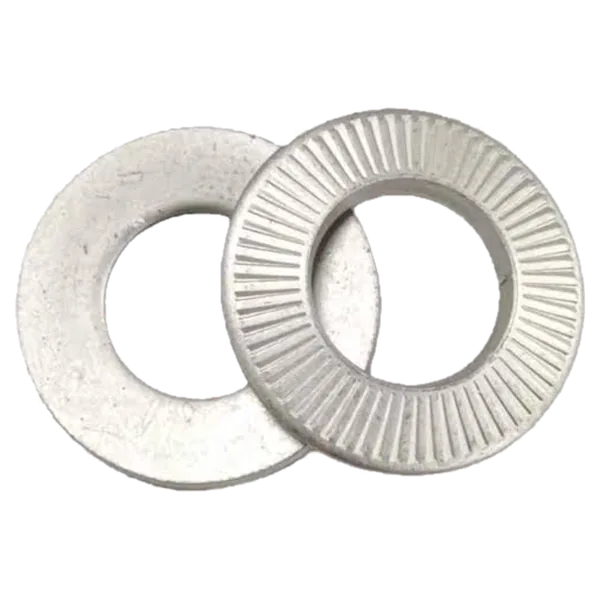
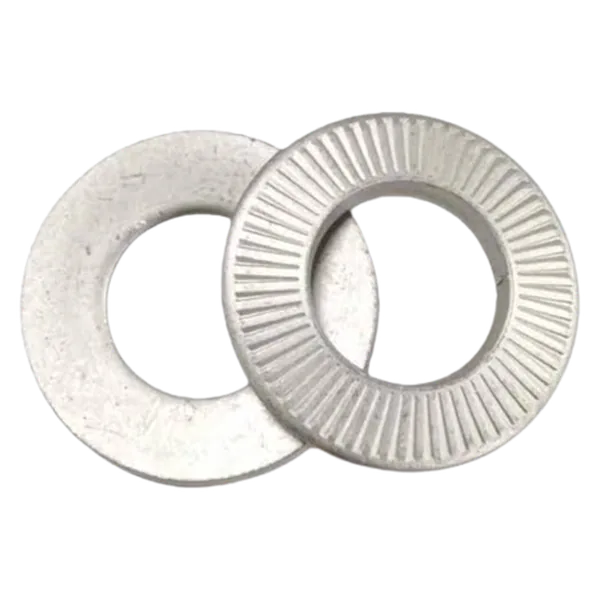
Replace AFNOR washer and tangless insert product photos
- NF E 25-511 contact lock washer and NF E 25-513 / 25-514 flat washers
  use the new supplied photos (PNG, WebP, white-background JPG)
- Tangless wire threaded insert uses the new transparent photo; share
  image size tags and schema updated to 600x600

diff --git a/single-products/wire-threaded-inserts/tangless-free-running-wire-threaded-insert.html b/single-products/wire-threaded-inserts/tangless-free-running-wire-threaded-insert.html
@@ -51,8 +51,8 @@
   <meta property="og:type" content="product">
   <meta property="og:url" content="https://exceltrading.in/single-products/wire-threaded-inserts/tangless-free-running-wire-threaded-insert">
   <meta property="og:image" content="https://exceltrading.in/assets/single-products/wire-threaded-inserts/tangless-free-running-wire-threaded-insert.jpg">
-  <meta property="og:image:width" content="447">
-  <meta property="og:image:height" content="447">
+  <meta property="og:image:width" content="600">
+  <meta property="og:image:height" content="600">
   <meta property="og:image:type" content="image/jpeg">
   <meta property="og:image:alt" content="Tangless Free-Running Wire Threaded Insert - Excel Trading Corporation">
   <meta property="og:locale" content="en_IN">
@@ -81,8 +81,8 @@
       "primaryImageOfPage": {
         "@type": "ImageObject",
         "url": "https://exceltrading.in/assets/single-products/wire-threaded-inserts/tangless-free-running-wire-threaded-insert.jpg",
-        "width": 447,
-        "height": 447
+        "width": 600,
+        "height": 600
       },
       "breadcrumb": {
         "@id": "https://exceltrading.in/single-products/wire-threaded-inserts/tangless-free-running-wire-threaded-insert#breadcrumb"
